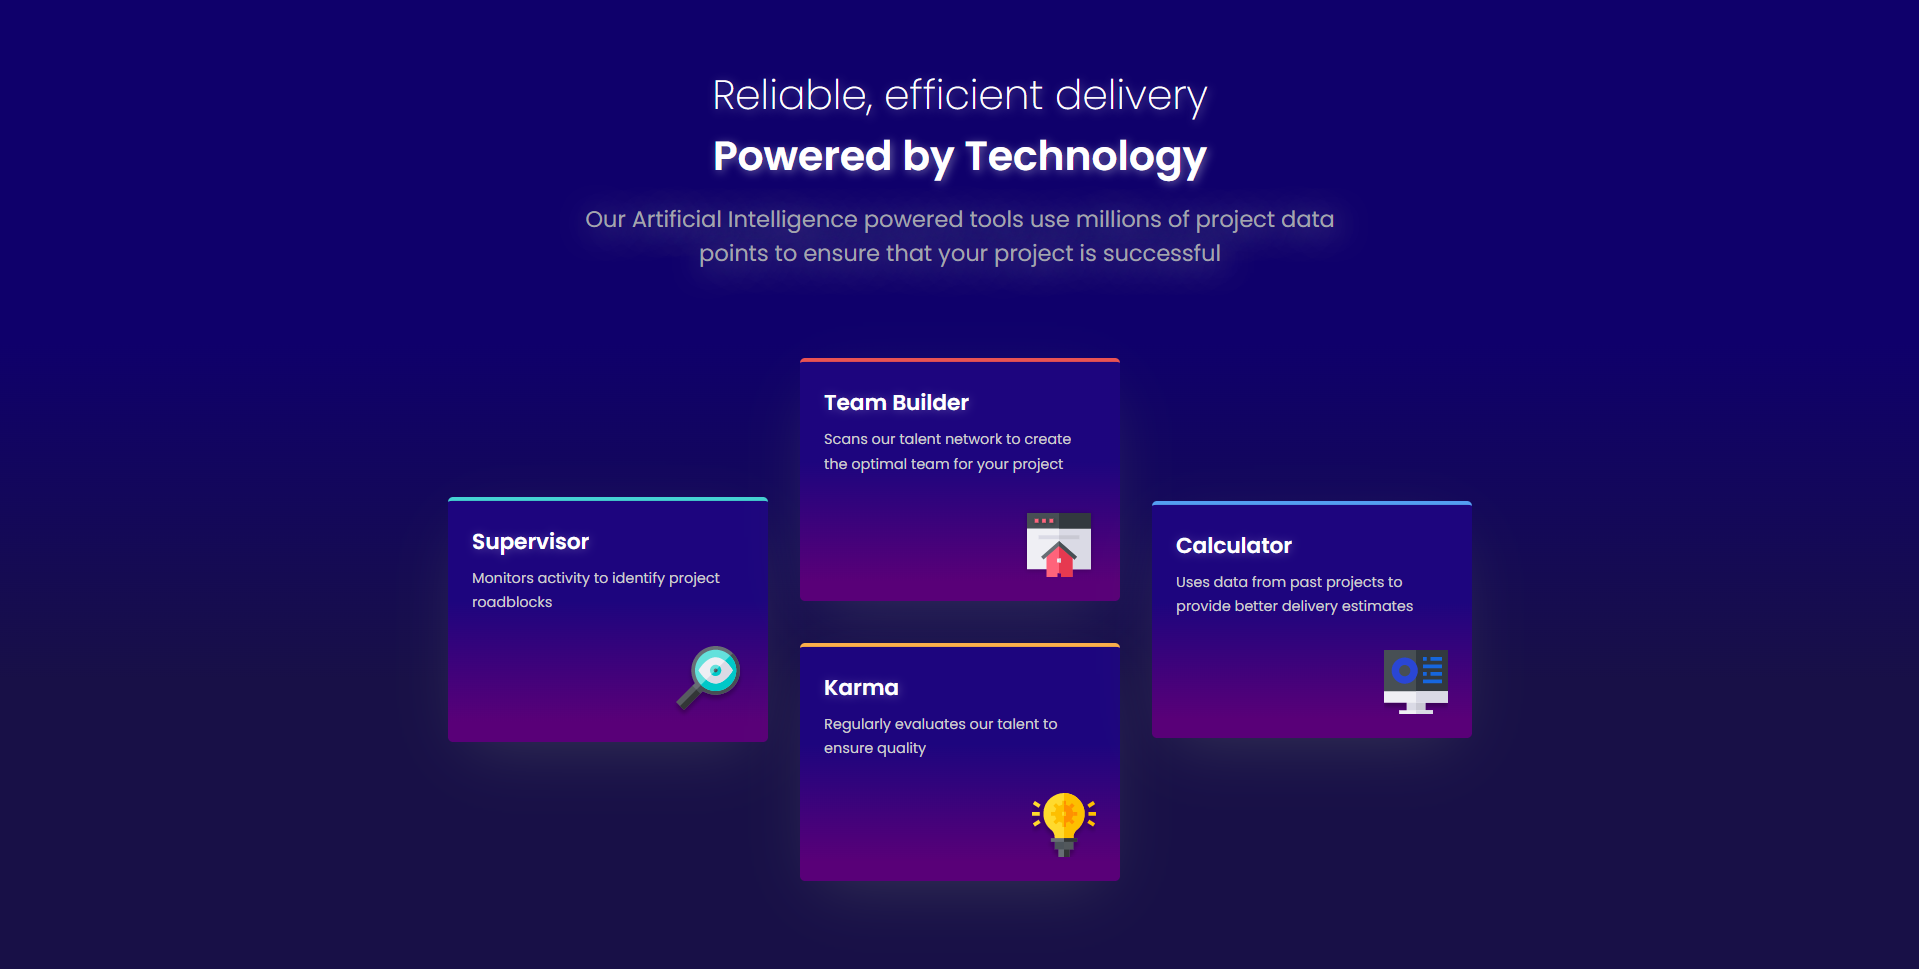
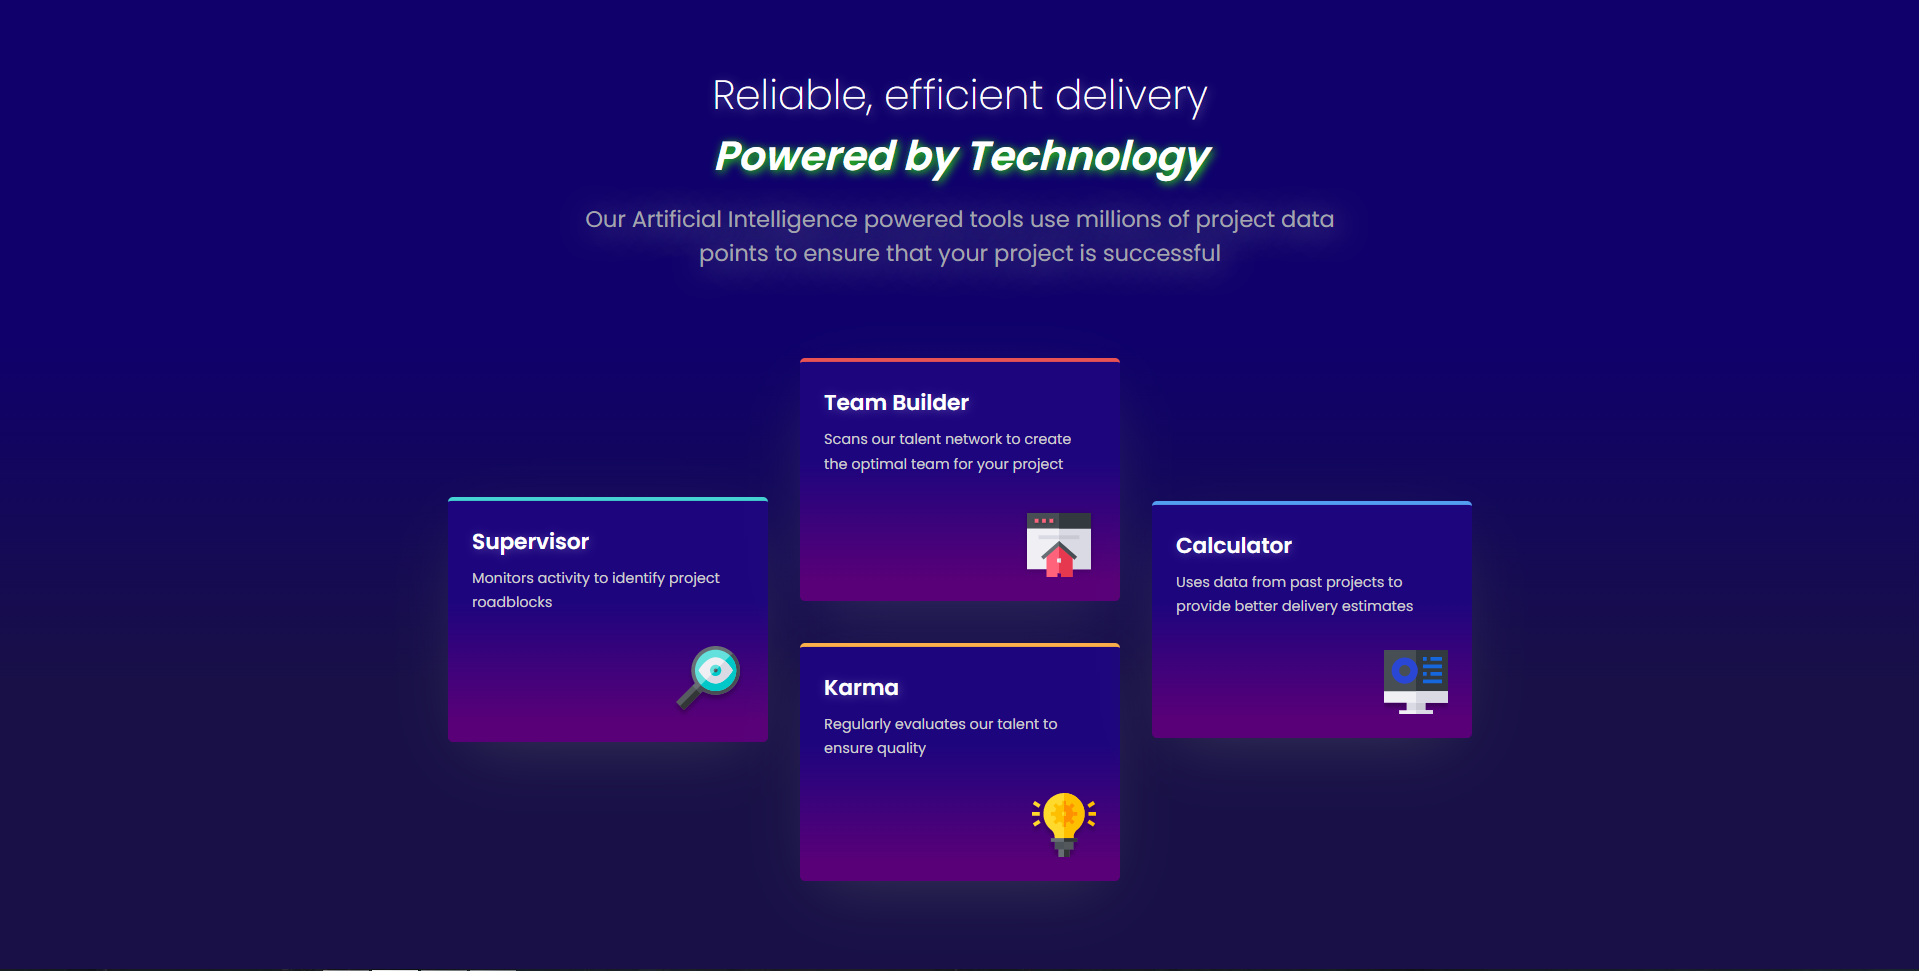
Last polishes: README, CSS and screenshots

diff --git a/basic-style.css b/basic-style.css
@@ -1,10 +1,5 @@
 @import url("https://fonts.googleapis.com/css2?family=Poppins:wght@200;400;600&display=swap");
 
-/* 
-TODO:
--add light/dark theme and switch
-   */
-
 /* ~~CSS reset~~ */
 * {
 	padding: 0;
@@ -43,6 +38,7 @@ header h1 {
 header h2 {
 	margin-bottom: 1rem;
 	font-weight: 600;
+	font-style: italic;
 }
 
 header p {
@@ -102,7 +98,7 @@ main section:nth-child(4) {
 	border-top: 4px solid hsl(212, 86%, 64%);
 }
 
-@media (prefers-color-scheme: dark) {
+@media (prefers-color-scheme: light) {
 	body {
 		background: linear-gradient(180deg, #0f006b 35.42%, #181047 70.31%);
 	}
@@ -111,9 +107,22 @@ main section:nth-child(4) {
 		color: white;
 	}
 
-	header h1,
-	header h2 {
+	header h1 {
 		text-shadow: 2px 2px 10px rgba(255, 255, 255, 0.407);
+	}
+
+	header h2 {
+		text-shadow: 2px 2px 10px #2bff00;
+	}
+
+	@media (prefers-reduced-motion: no-preference) {
+		header h2 {
+			transition: 300ms ease text-shadow;
+		}
+	}
+
+	header h2:hover {
+		text-shadow: 2px 2px 10px #22ff77;
 	}
 
 	main section p {

diff --git a/README-template.md b/README-template.md
@@ -1,6 +1,7 @@
 # Frontend Mentor - Four card feature section solution
 
-This is a solution to the [Four card feature section challenge on Frontend Mentor](https://www.frontendmentor.io/challenges/four-card-feature-section-weK1eFYK). Frontend Mentor challenges help you improve your coding skills by building realistic projects. 
+**Hello! :wave:**
+This is a solution to the [Four card feature section challenge on Frontend Mentor](https://www.frontendmentor.io/challenges/four-card-feature-section-weK1eFYK). Frontend Mentor challenges help you improve your coding skills by building realistic projects.
 
 ## Table of contents
 
@@ -12,11 +13,8 @@ This is a solution to the [Four card feature section challenge on Frontend Mento
   - [Built with](#built-with)
   - [What I learned](#what-i-learned)
   - [Continued development](#continued-development)
-  - [Useful resources](#useful-resources)
 - [Author](#author)
 - [Acknowledgments](#acknowledgments)
-
-**Note: Delete this note and update the table of contents based on what sections you keep.**
 
 ## Overview
 
@@ -28,83 +26,45 @@ Users should be able to:
 
 ### Screenshot
 
-![](./screenshot.jpg)
+#### Dark Theme( customized theme✨ )
 
-Add a screenshot of your solution. The easiest way to do this is to use Firefox to view your project, right-click the page and select "Take a Screenshot". You can choose either a full-height screenshot or a cropped one based on how long the page is. If it's very long, it might be best to crop it.
+![Dark theme](./images/screenshot-dark.png)
 
-Alternatively, you can use a tool like [FireShot](https://getfireshot.com/) to take the screenshot. FireShot has a free option, so you don't need to purchase it. 
+#### Light Theme( normal theme - boring one)
 
-Then crop/optimize/edit your image however you like, add it to your project, and update the file path in the image above.
-
-**Note: Delete this note and the paragraphs above when you add your screenshot. If you prefer not to add a screenshot, feel free to remove this entire section.**
+![Light theme](./images/screenshot-light.png)
 
 ### Links
 
-- Solution URL: [Add solution URL here](https://your-solution-url.com)
-- Live Site URL: [Add live site URL here](https://your-live-site-url.com)
+- Live Site URL: [Here](https://igafshell.github.io/four-card-feature-section-main/)
 
 ## My process
 
 ### Built with
 
-- Semantic HTML5 markup
-- CSS custom properties
-- Flexbox
-- CSS Grid
+- HTML5 markup
+- Vanilla CSS
 - Mobile-first workflow
-- [React](https://reactjs.org/) - JS library
-- [Next.js](https://nextjs.org/) - React framework
-- [Styled Components](https://styled-components.com/) - For styles
-
-**Note: These are just examples. Delete this note and replace the list above with your own choices**
+- SVG
 
 ### What I learned
 
-Use this section to recap over some of your major learnings while working through this project. Writing these out and providing code samples of areas you want to highlight is a great way to reinforce your own knowledge.
+I learned:
 
-To see how you can add code snippets, see below:
-
-```html
-<h1>Some HTML code I'm proud of</h1>
-```
-```css
-.proud-of-this-css {
-  color: papayawhip;
-}
-```
-```js
-const proudOfThisFunc = () => {
-  console.log('🎉')
-}
-```
-
-If you want more help with writing markdown, we'd recommend checking out [The Markdown Guide](https://www.markdownguide.org/) to learn more.
-
-**Note: Delete this note and the content within this section and replace with your own learnings.**
+- How to work with svg and combine it with html & css
+- How to make custom animations
+- How to make a dark and light themes
+- How to make text glow( `text-shadow: 2px 2px 10px rgba(255, 255, 255, 0.407);` )
 
 ### Continued development
 
-Use this section to outline areas that you want to continue focusing on in future projects. These could be concepts you're still not completely comfortable with or techniques you found useful that you want to refine and perfect.
-
-**Note: Delete this note and the content within this section and replace with your own plans for continued development.**
-
-### Useful resources
-
-- [Example resource 1](https://www.example.com) - This helped me for XYZ reason. I really liked this pattern and will use it going forward.
-- [Example resource 2](https://www.example.com) - This is an amazing article which helped me finally understand XYZ. I'd recommend it to anyone still learning this concept.
-
-**Note: Delete this note and replace the list above with resources that helped you during the challenge. These could come in handy for anyone viewing your solution or for yourself when you look back on this project in the future.**
+I will continue making projects and perfecting my frontend skills, focusing on implementing more stylish animations and becoming familiar with using svg.
 
 ## Author
 
-- Website - [Add your name here](https://www.your-site.com)
-- Frontend Mentor - [@yourusername](https://www.frontendmentor.io/profile/yourusername)
-- Twitter - [@yourusername](https://www.twitter.com/yourusername)
-
-**Note: Delete this note and add/remove/edit lines above based on what links you'd like to share.**
+- Github - [igafshell](https://www.github.com/igafshell)
+- Frontend Mentor - [@igafshell](https://www.frontendmentor.io/profile/igafshell)
 
 ## Acknowledgments
 
-This is where you can give a hat tip to anyone who helped you out on this project. Perhaps you worked in a team or got some inspiration from someone else's solution. This is the perfect place to give them some credit.
-
-**Note: Delete this note and edit this section's content as necessary. If you completed this challenge by yourself, feel free to delete this section entirely.**
+Thanks to [Frontend Mentor](https://www.frontendmentor.io/home) for this amazing challenge!🙏 I had lots of fun creating this project and customizing it!✨
